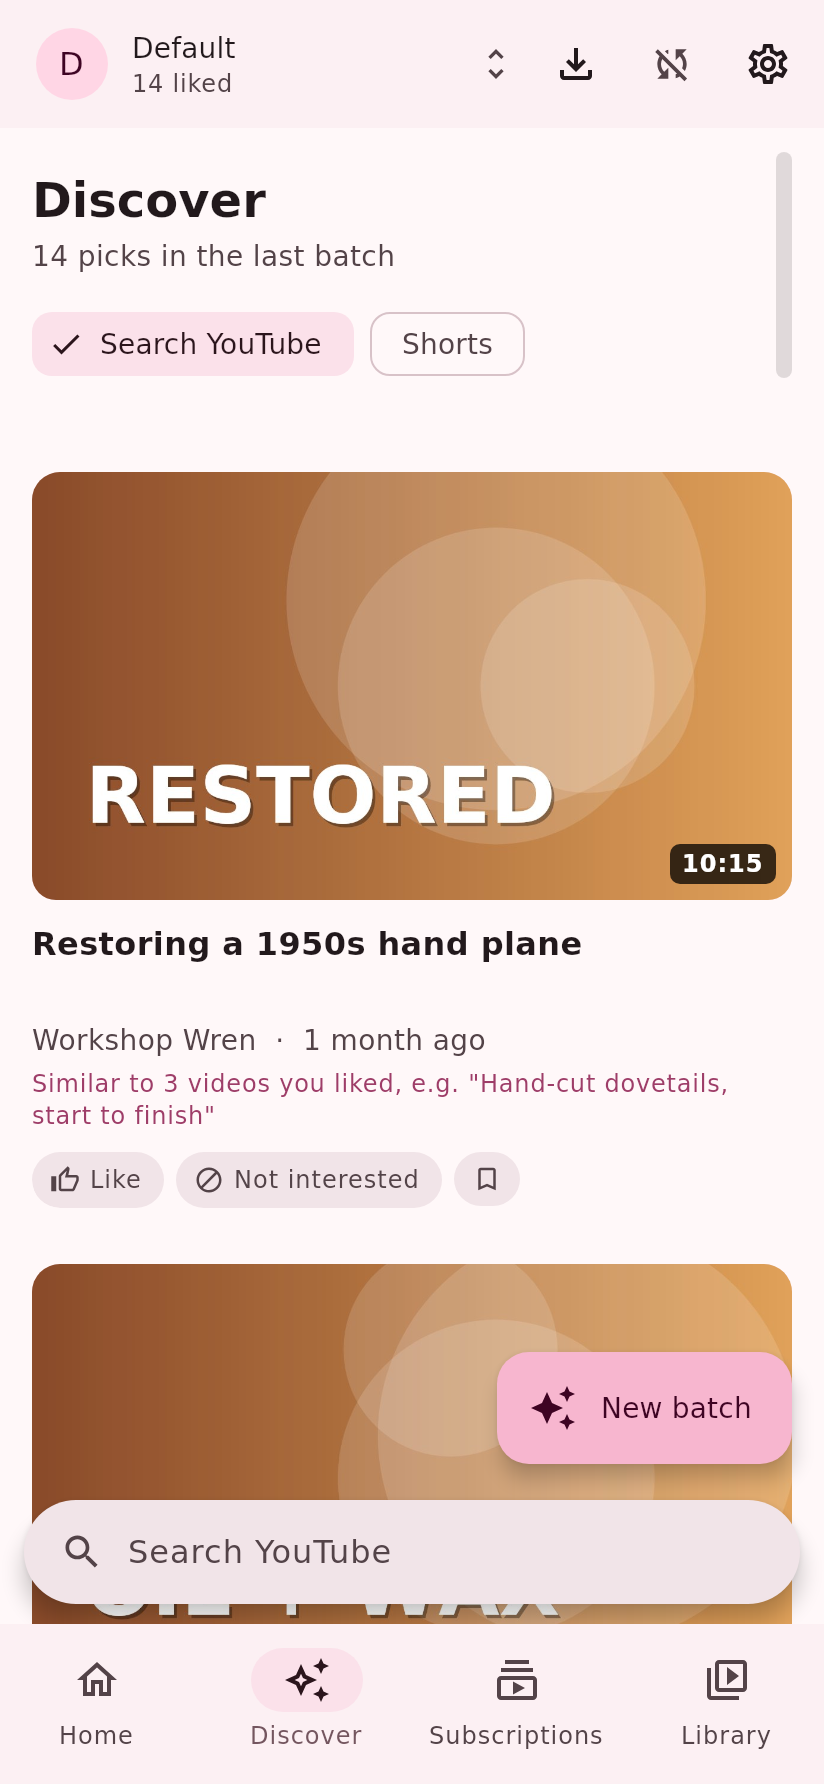
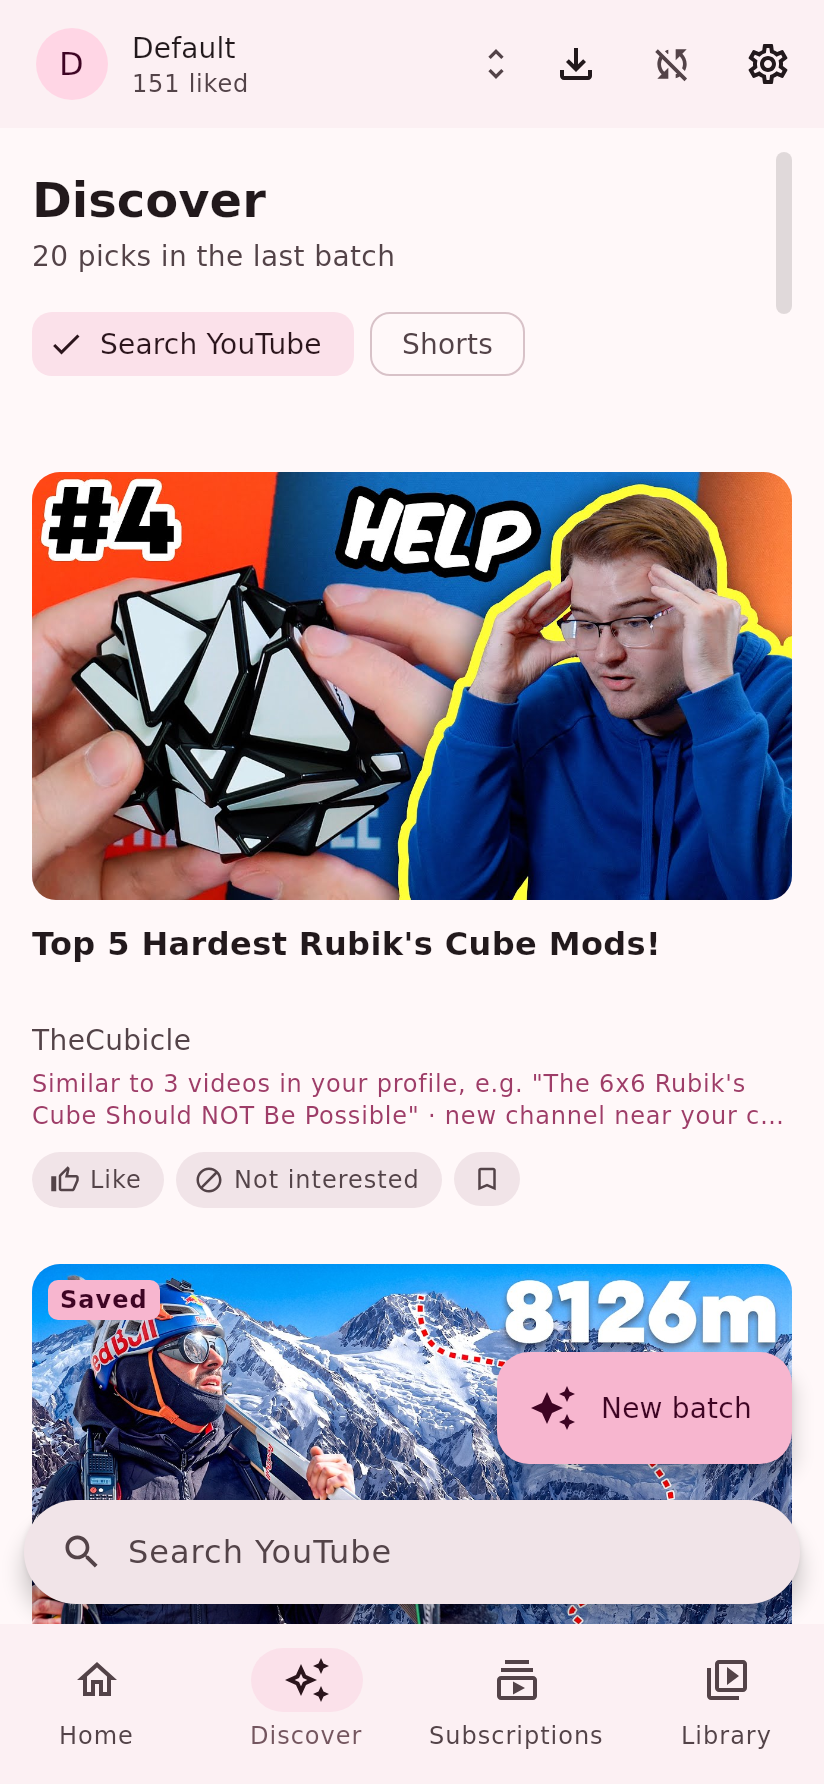
Fix the Android SDK setup in CI; real screenshots; README without release steps
- The setup-android action's default package list asks for "tools",
  which no longer exists, so the check failed before building: it now
  installs only platform-tools and android-36. checkout and setup-java
  move to v5 (Node 24).
- README screenshots come from a copy of the owner's library instead of
  generated videos (gradle :desktop:readmeScreenshots -Pdata=DIR).
- The README no longer explains making a release; the spec and the
  workflow do.

Claude-Session: https://claude.ai/code/session_01QHeBBhrScr9xbtKwF58S2o

diff --git a/desktop/src/test/kotlin/forage/desktop/ReadmeScreenshots.kt b/desktop/src/test/kotlin/forage/desktop/ReadmeScreenshots.kt
@@ -1,0 +1,100 @@
+package forage.desktop
+
+import androidx.compose.ui.ImageComposeScene
+import androidx.compose.ui.unit.Density
+import forage.app.AppModel
+import forage.app.LibraryView
+import forage.app.Models
+import forage.app.Platform
+import forage.app.Player
+import forage.app.Screen
+import forage.app.ui.App
+import forage.app.ui.ForageTheme
+import forage.app.ui.LocalExtras
+import forage.core.source.Sources
+import forage.source.youtube.YouTubeSource
+import kotlinx.coroutines.CoroutineScope
+import kotlinx.coroutines.Dispatchers
+import kotlinx.coroutines.runBlocking
+import org.jetbrains.skia.EncodedImageFormat
+import java.io.File
+
+/**
+ * The README's screenshots, from a copy of a real library (its database, settings and cached
+ * thumbnails; the copy is changed, never the library): window and phone sizes, light and dark.
+ * Usage: gradle :desktop:readmeScreenshots -Pdata=DIR (writes docs/screenshots).
+ */
+private class Phone : Platform by DesktopPlatform {
+    override val isMobile = true
+    override fun embedderDownloaded(dataDir: File) = true
+    override val players = listOf(Player.IN_APP, Player.OTHER_APP)
+}
+
+private object Window : Platform by DesktopPlatform {
+    override fun embedderDownloaded(dataDir: File) = true
+}
+
+fun main(args: Array<String>) {
+    val library = File(args[0])
+    val out = File(args[1]).apply { mkdirs() }
+
+    fun open(platform: Platform): AppModel {
+        val dir = kotlin.io.path.createTempDirectory("forage-readme").toFile()
+        listOf("forage.db", "settings.properties").forEach { File(library, it).takeIf(File::isFile)?.copyTo(File(dir, it)) }
+        File(library, "thumbnails").takeIf(File::isDirectory)?.copyRecursively(File(dir, "thumbnails"))
+        val m = AppModel(dir, CoroutineScope(Dispatchers.Unconfined), Dispatchers.Unconfined, DesktopStorage.plain(dir), Models(dir, platform), platform) {
+            Sources(YouTubeSource())
+        }
+        runBlocking { m.reload() }
+        m.closeWelcome()
+        m.hideGuide()
+        m.changeUpdateCheck(false)
+        m.message = null
+        return m
+    }
+
+    fun shot(m: AppModel, name: String, width: Int, height: Int, density: Float, dark: Boolean = false) {
+        m.message = null
+        runBlocking {
+            preload(m)
+            // Home's and Subscriptions' uploads too, which the shared preload leaves out.
+            m.uploads.take(10).forEach { m.thumbnails.load(it.video.id) }
+        }
+        val scene = ImageComposeScene(width, height, Density(density)) {
+            androidx.compose.runtime.CompositionLocalProvider(LocalExtras provides forage.desktop.ui.DesktopExtras) {
+                ForageTheme(dark) { App(m, onImport = {}) }
+            }
+        }
+        repeat(12) { scene.render(it * 100_000_000L) }
+        File(out, "$name.png").writeBytes(scene.render(1_200_000_000L).encodeToData(EncodedImageFormat.PNG)!!.bytes)
+        scene.close()
+        println("wrote $name.png")
+    }
+
+    fun waitIdle(m: AppModel) {
+        val until = System.currentTimeMillis() + 180_000
+        Thread.sleep(500)
+        while ((m.job != null || m.background != null) && System.currentTimeMillis() < until) Thread.sleep(200)
+    }
+
+    val wide = open(Window)
+    // The subscriptions' latest uploads, looked up as the app does.
+    wide.refreshFeeds(force = true)
+    waitIdle(wide)
+    wide.go(Screen.HOME); shot(wide, "home", 1920, 1200, 1.5f)
+    wide.go(Screen.DISCOVER); shot(wide, "discover", 1920, 1200, 1.5f)
+    wide.go(Screen.LIBRARY); wide.openLibrary(LibraryView.LATER); shot(wide, "watch-later", 1920, 1200, 1.5f)
+    wide.go(Screen.SUBSCRIPTIONS); shot(wide, "subscriptions", 1920, 1200, 1.5f, dark = true)
+    wide.go(Screen.DISCOVER)
+    wide.picks.firstOrNull()?.let { wide.showPick(it.pick) }
+    waitIdle(wide)
+    shot(wide, "video-page", 1920, 1200, 1.5f, dark = true)
+
+    val phone = open(Phone())
+    phone.refreshFeeds(force = true)
+    waitIdle(phone)
+    phone.go(Screen.HOME); shot(phone, "phone-home", 824, 1784, 2f)
+    phone.go(Screen.DISCOVER); shot(phone, "phone-discover", 824, 1784, 2f)
+    phone.go(Screen.LIBRARY); shot(phone, "phone-library", 824, 1784, 2f, dark = true)
+    Runtime.getRuntime().halt(0)
+}

diff --git a/docs/SPEC.md b/docs/SPEC.md
@@ -189,7 +189,7 @@ Sync (M4) follows after these.
 
 **Releases and updates (Nov 2026):** one version for both apps, `forage.version` in `gradle.properties` (0.21.0 the first public one); the desktop package takes it as is, Android's version code is major·10000 + minor·100 + patch, and a generated `FORAGE_VERSION` constant tells the shared app code what it is. A release is a tag `v<version>` on `main`: GitHub Actions (`.github/workflows/release.yml`) checks the tag matches the version and that `docs/releases/<version>.md` exists, runs the tests, builds the `.deb` and the APK signed with Forage's key (from two repository secrets; it stops without them, and refuses an APK signed with the debug key, which couldn't update installed ones), and publishes a GitHub release with both files, `SHA256SUMS` and those notes. `check.yml` runs the tests and builds both apps for pushes to `main` and pull requests.
    - *Update check, opt-in*: the welcome's first step has *Tell me when there's a new version*; whoever hasn't been asked (the welcome skipped, or a library from before) is asked once on Home. Allowed, Forage asks GitHub's API for the latest release at start, at most once in 20 hours, naming itself only as "Forage" and sending nothing else; a newer version (not a prerelease) shows a note on Home with *Download* (the APK, or the `amd64.deb`) and *What's new*, put away per version. Settings, Backup & data, shows the version, the switch, *Look now* and the result. Never in the private vault; nothing installs by itself. Android users can also follow releases with Obtainium.
-   - *README*: what Forage is, install and update, exactly what it contacts, importing, building, and making a release. Its screenshots come from a made-up library with drawn thumbnails (`gradle :desktop:demoScreenshots`), never a real one.
+   - *README*: what Forage is, install and update, exactly what it contacts, importing and building (how to make a release stays here and in the workflow, not in the README). Its screenshots come from a copy of the owner's library, with their agreement (`gradle :desktop:readmeScreenshots -Pdata=DIR`: the copy is changed, never the library; the private vault never appears).
 
 **The private vault's look (Nov 2026):** the vault wears a look of its own, always dark and kept inside the vault (database version 15 adds a preference table, encrypted with the vault): Neon by default (near-black, hot pink and violet, with a soft glow around the accent's buttons), or Velvet (wine and rose-red with gold) or Noir (graphite and crimson), chosen in its Settings. The accent and the text on it now come from the theme. In the vault the Subscriptions tab shows a face, as it's where the performers you follow are, and Home's "Get started" walks through searching, liking, following performers and (optionally) the catalogue, saying what the catalogue is for; the card can be hidden.
 

diff --git a/README.md b/README.md
@@ -104,19 +104,7 @@ desktop app from source with its own data folder:
 ```
 
 The `cli` module does what the app does from a terminal (`./gradlew :cli:installDist`). The
-design, and why it is the way it is, is in [docs/SPEC.md](docs/SPEC.md). The screenshots come from a
-made-up library (`./gradlew :desktop:demoScreenshots`).
-
-## Making a release
-
-1. Set the new version in `gradle.properties` (`forage.version`); both apps take it from there.
-2. Write what's new in `docs/releases/<version>.md`.
-3. Merge to `main`, then tag and push: `git tag v<version>` and `git push origin v<version>`.
-
-GitHub then runs the tests, builds the Linux package and the signed APK, and publishes the release
-with those notes. It needs two repository secrets, `FORAGE_KEYSTORE_BASE64` (the signing key,
-base64-encoded) and `FORAGE_KEYSTORE_PASSWORD`; without them, it stops rather than sign with
-another key.
+design, and why it is the way it is, is in [docs/SPEC.md](docs/SPEC.md).
 
 ## Licence
 
